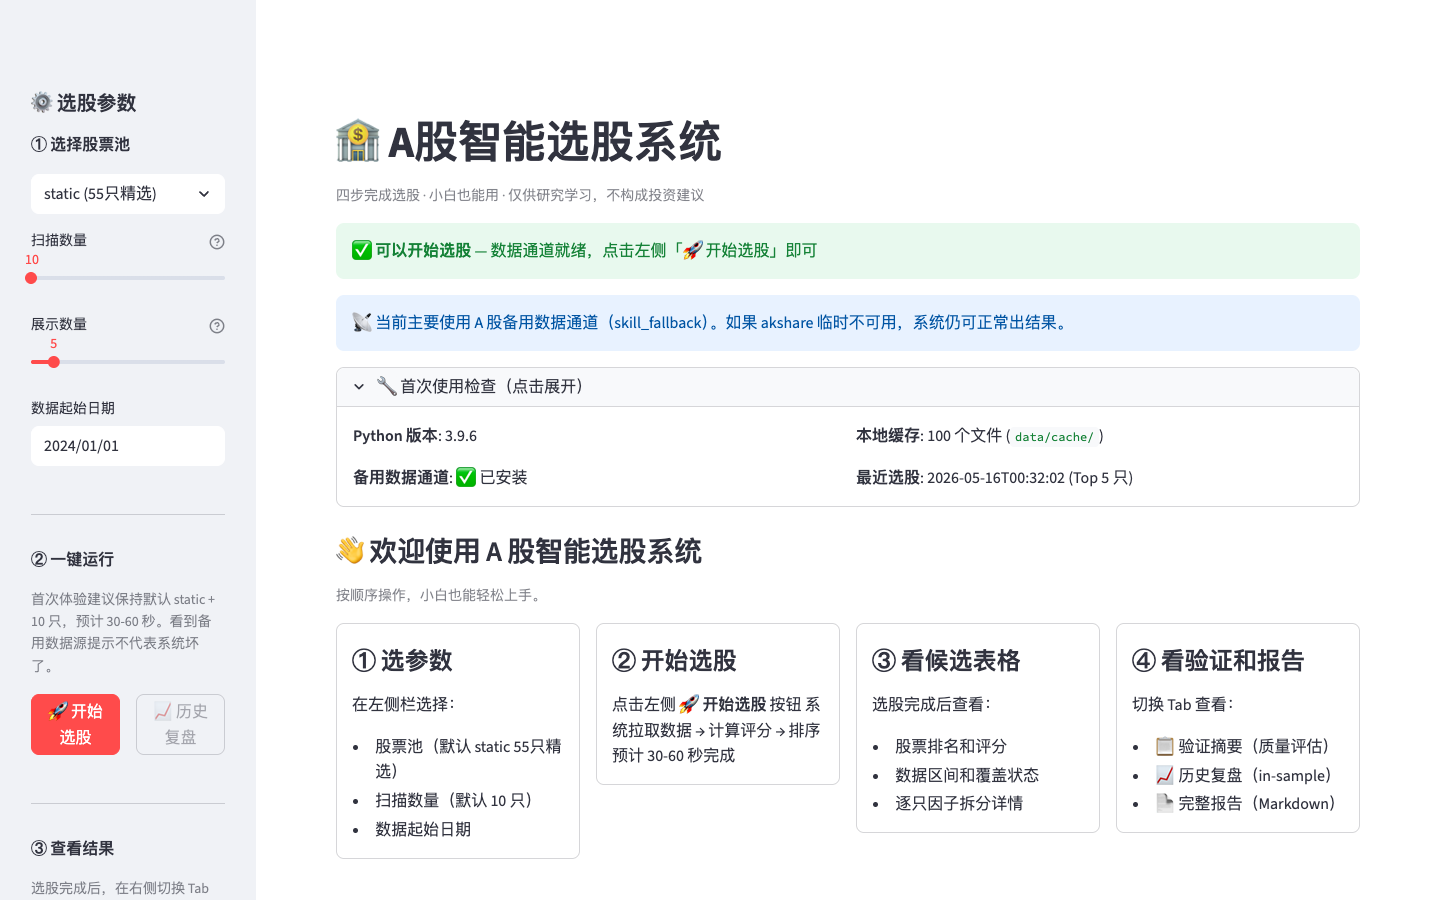
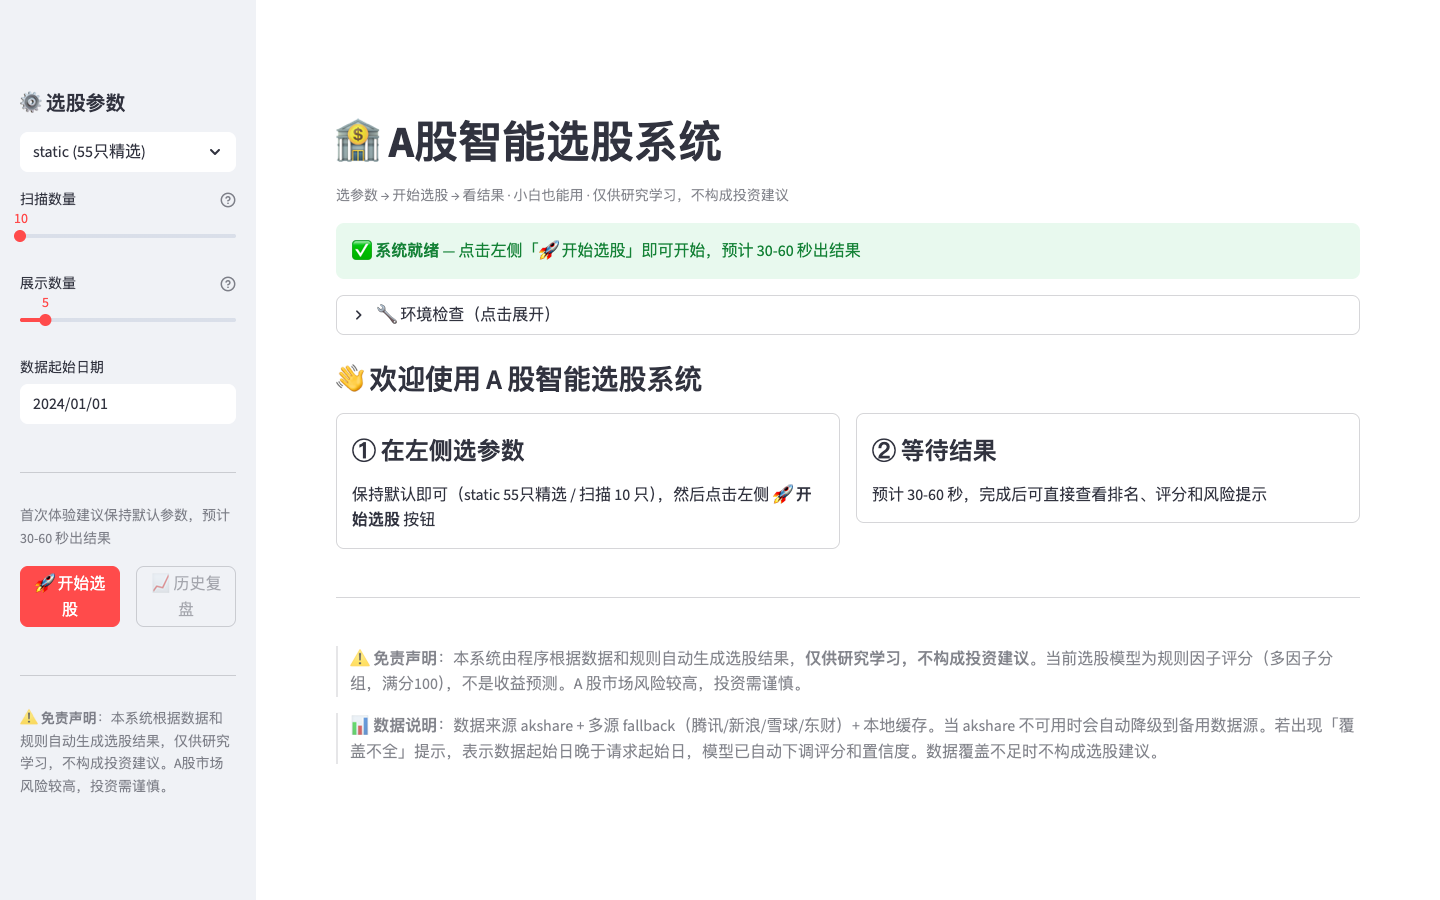
P8.3-4: UI验收脚本+截图更新/confirm_p83_ui.py 44项自动检查/首页+结果页真实截图

diff --git a/scripts/confirm_p83_ui.py b/scripts/confirm_p83_ui.py
@@ -1,0 +1,159 @@
+#!/usr/bin/env python3
+"""P8.3-4 UI 验收脚本：确认 app.py 页面文本和最新选股结果中文化到位。
+用法: python3 scripts/confirm_p83_ui.py
+不启动 Streamlit，只静态检查源码文本 + JSON 数据。
+"""
+
+import json
+import sys
+from pathlib import Path
+
+ROOT = Path(__file__).resolve().parent.parent
+APP_PY = ROOT / "app.py"
+LATEST_JSON = ROOT / "reports/output/selection_latest.json"
+
+CHECKS_PASSED = 0
+CHECKS_FAILED = 0
+
+
+def check(name: str, ok: bool, detail: str = ""):
+    global CHECKS_PASSED, CHECKS_FAILED
+    if ok:
+        CHECKS_PASSED += 1
+        print(f"  ✅ {name}")
+    else:
+        CHECKS_FAILED += 1
+        print(f"  ❌ {name}" + (f" — {detail}" if detail else ""))
+
+
+# ─── 1. 静态文本检查（app.py 源码） ───────────────────────────
+print("=" * 60)
+print("1. app.py 静态文本检查")
+print("=" * 60)
+
+src = APP_PY.read_text()
+
+check("首页引导文案", "选参数 → 开始选股 → 看结果" in src)
+check("Top 3 候选速览标题", "Top 3 候选速览" in src)
+check("技术指标详情折叠入口", "技术指标详情" in src)
+check("免责声明", "仅供研究学习，不构成投资建议" in src)
+
+# 决策中文标签
+for tag in ["强观察", "观察", "中性", "回避"]:
+    check(f"决策标签: {tag}", f'"{tag}"' in src)
+
+# 风险中文标签
+for tag in ["低风险", "中风险", "高风险"]:
+    check(f"风险标签: {tag}", f'"{tag}"' in src)
+
+# 置信度中文标签
+for tag in ["高置信度", "中置信度", "低置信度"]:
+    check(f"置信度标签: {tag}", f'"{tag}"' in src)
+
+# 因子中文标签 + 图标
+factor_labels = ["趋势", "动量", "量能", "风控", "数据质量", "形态"]
+for fl in factor_labels:
+    check(f"因子标签: {fl}", fl in src)
+
+# 验证旧英文标签不在 UI 展示位置（标题和正文）
+# 检查逐只详情标题不再直接用 raw decision/risk_level
+has_raw_in_detail_title = (
+    '{score}/100 {dec} {rl}' in src
+    or '— {score}/100 {dec}' in src
+)
+check("逐只详情标题已用中文", not has_raw_in_detail_title,
+      "标题仍使用 raw dec/rl 英文字段")
+
+# 检查风险提示不再一律 st.error
+check("风险分级着色(risk_alert)", "risk_alert(rl," in src)
+
+# 检查友好日期区间
+check("友好日期区间(friendly_date_range)", "friendly_date_range(" in src)
+
+# 检查禁词不在 UI 正向文案
+FORBIDDEN = ["买入", "卖出", "目标价", "收益预测", "建议买", "建议卖"]
+for w in FORBIDDEN:
+    # 只检查非注释、非免责声明的行
+    lines_with = [l.strip() for l in src.splitlines() if w in l and not l.strip().startswith("#")]
+    # 排除免责声明语境
+    non_disclaimer = [l for l in lines_with if "免责" not in l and "禁止" not in l and "不是" not in l]
+    check(f"禁词不在 UI 正向文案: {w}", len(non_disclaimer) == 0,
+          f"出现在: {non_disclaimer[:2]}" if non_disclaimer else "")
+
+
+# ─── 2. 运行时数据检查（最新选股 JSON） ────────────────────────
+print()
+print("=" * 60)
+print("2. 最新选股 JSON 运行时数据检查")
+print("=" * 60)
+
+if not LATEST_JSON.exists():
+    print("  ⚠️ selection_latest.json 不存在，跳过运行时检查")
+    print("  提示: 请先运行 .venv/bin/python main.py select --universe static --limit 10 --top 5")
+else:
+    with open(LATEST_JSON) as f:
+        data = json.load(f)
+
+    top = data.get("top", [])
+    check("Top 候选非空", len(top) > 0, f"top 长度: {len(top)}")
+
+    if top:
+        # 检查 JSON 底层字段仍是英文（映射只在 UI 展示层）
+        first = top[0]
+        dec_val = first.get("decision", "")
+        rl_val = first.get("risk_level", "")
+        conf_val = first.get("confidence", "")
+        check("JSON decision 仍为英文", dec_val in ("strong_watch", "watch", "neutral", "avoid"),
+              f"实际值: {dec_val}")
+        check("JSON risk_level 仍为英文", rl_val in ("low", "medium", "high"),
+              f"实际值: {rl_val}")
+        check("JSON confidence 仍为英文", conf_val in ("high", "medium", "low"),
+              f"实际值: {conf_val}")
+
+        # 检查 explain 字段完整
+        exp = first.get("explain", {})
+        exp_fields = ["summary", "strengths", "weaknesses", "risk_note", "confidence_note"]
+        missing = [k for k in exp_fields if k not in exp]
+        check("explain 字段完整", len(missing) == 0, f"缺少: {missing}" if missing else "")
+
+        # 检查因子得分
+        fs = first.get("factor_scores", {})
+        for fk in ["trend", "momentum", "volume", "risk", "data_quality", "pattern"]:
+            check(f"因子得分 {fk} 存在", fk in fs, f"keys: {list(fs.keys())}")
+
+        # 统计决策分布
+        decisions = set(r.get("decision", "") for r in top)
+        check("至少有 1 种决策类型", len(decisions) > 0, f"决策: {decisions}")
+
+    # 检查禁词不在 JSON explain 中
+    all_explain_text = ""
+    for r in top:
+        all_explain_text += str(r.get("explain", {}))
+    forbidden_found = [w for w in FORBIDDEN if w in all_explain_text]
+    check("JSON explain 无禁词", len(forbidden_found) == 0,
+          f"发现: {forbidden_found}" if forbidden_found else "")
+
+
+# ─── 3. 截图文件存在性检查 ─────────────────────────────────────
+print()
+print("=" * 60)
+print("3. 截图文件检查")
+print("=" * 60)
+
+for name in ["home.png", "result.png"]:
+    p = ROOT / "docs/screenshots" / name
+    check(f"截图存在: {name}", p.exists() and p.stat().st_size > 1000,
+          f"大小: {p.stat().st_size}" if p.exists() else "不存在")
+
+
+# ─── 汇总 ─────────────────────────────────────────────────────
+print()
+print("=" * 60)
+total = CHECKS_PASSED + CHECKS_FAILED
+print(f"汇总: {CHECKS_PASSED}/{total} 通过")
+if CHECKS_FAILED > 0:
+    print(f"⚠️ {CHECKS_FAILED} 项未通过")
+    sys.exit(1)
+else:
+    print("🎉 全部通过")
+    sys.exit(0)

diff --git a/PROJECT_STATE.md b/PROJECT_STATE.md
@@ -178,8 +178,32 @@ P8.3-3.2 置信度验收正则小尾巴收口：
 - 无业务逻辑变化，纯格式收口
 - 验收：py_compile ✅ | 正则零命中 ✅ | 禁词检查 ✅
 
-下一步建议 P8.3-4：UI 验收脚本和截图更新。
+P8.3-4 UI 验收脚本和截图更新：
+- 新增 `scripts/confirm_p83_ui.py`：44 项自动检查，覆盖 app.py 静态文本 + JSON 运行时数据 + 截图文件
+  - 首页引导文案（选参数 → 开始选股 → 看结果）
+  - Top 3 候选速览标题
+  - 技术指标详情折叠入口
+  - 免责声明
+  - 决策标签中文：强观察/观察/中性/回避
+  - 风险标签中文：低风险/中风险/高风险
+  - 置信度标签中文：高置信度/中置信度/低置信度
+  - 因子标签中文：趋势/动量/量能/风控/数据质量/形态
+  - 逐只详情标题已用中文（不再显示 raw 英文字段）
+  - 风险分级着色 risk_alert
+  - 友好日期区间 friendly_date_range
+  - 禁词不在 UI 正向文案
+  - JSON 底层字段仍为英文（映射仅在 UI 展示层）
+  - explain 字段完整、因子得分齐全
+  - JSON explain 无禁词
+  - 截图文件存在且非空
+- 截图更新：通过 agent-browser 从真实 Streamlit 页面截取
+  - `docs/screenshots/home.png`（~197KB）：首页引导 + 系统就绪状态
+  - `docs/screenshots/result.png`（~174KB）：Top3 速览卡片 + 中文决策/风险标签
+- 未修改 app.py、评分、排序、数据链路、报告逻辑
+- 验收：confirm_p83_ui 44/44 ✅ | py_compile ✅ | select EXIT:0 ✅ | backtest-validate EXIT:0 ✅ | report EXIT:0 ✅ | 禁词检查 ✅
+
+下一步建议：P8.3 全部完成，可考虑 P8.4 或后续阶段。
 
 ## 5. 关键文件
 
-app.py / main.py / data/fetcher.py / data/universe.py / strategies/selection.py / reports/generator.py / requirements.txt / requirements-ui.txt / scripts/test_baostock.py / scripts/confirm_coverage_fix.py / scripts/confirm_explain.py / scripts/confirm_report_explain.py / scripts/confirm_ui_dependencies.py / docs/P8_1_ACCEPTANCE.md / docs/P8_2_EXPLANATION_DESIGN.md / docs/P8_3_UI_EXPERIENCE_DESIGN.md / docs/P8_ROADMAP.md
+app.py / main.py / data/fetcher.py / data/universe.py / strategies/selection.py / reports/generator.py / requirements.txt / requirements-ui.txt / scripts/test_baostock.py / scripts/confirm_coverage_fix.py / scripts/confirm_explain.py / scripts/confirm_report_explain.py / scripts/confirm_ui_dependencies.py / scripts/confirm_p83_ui.py / docs/P8_1_ACCEPTANCE.md / docs/P8_2_EXPLANATION_DESIGN.md / docs/P8_3_UI_EXPERIENCE_DESIGN.md / docs/P8_ROADMAP.md / docs/screenshots/home.png / docs/screenshots/result.png